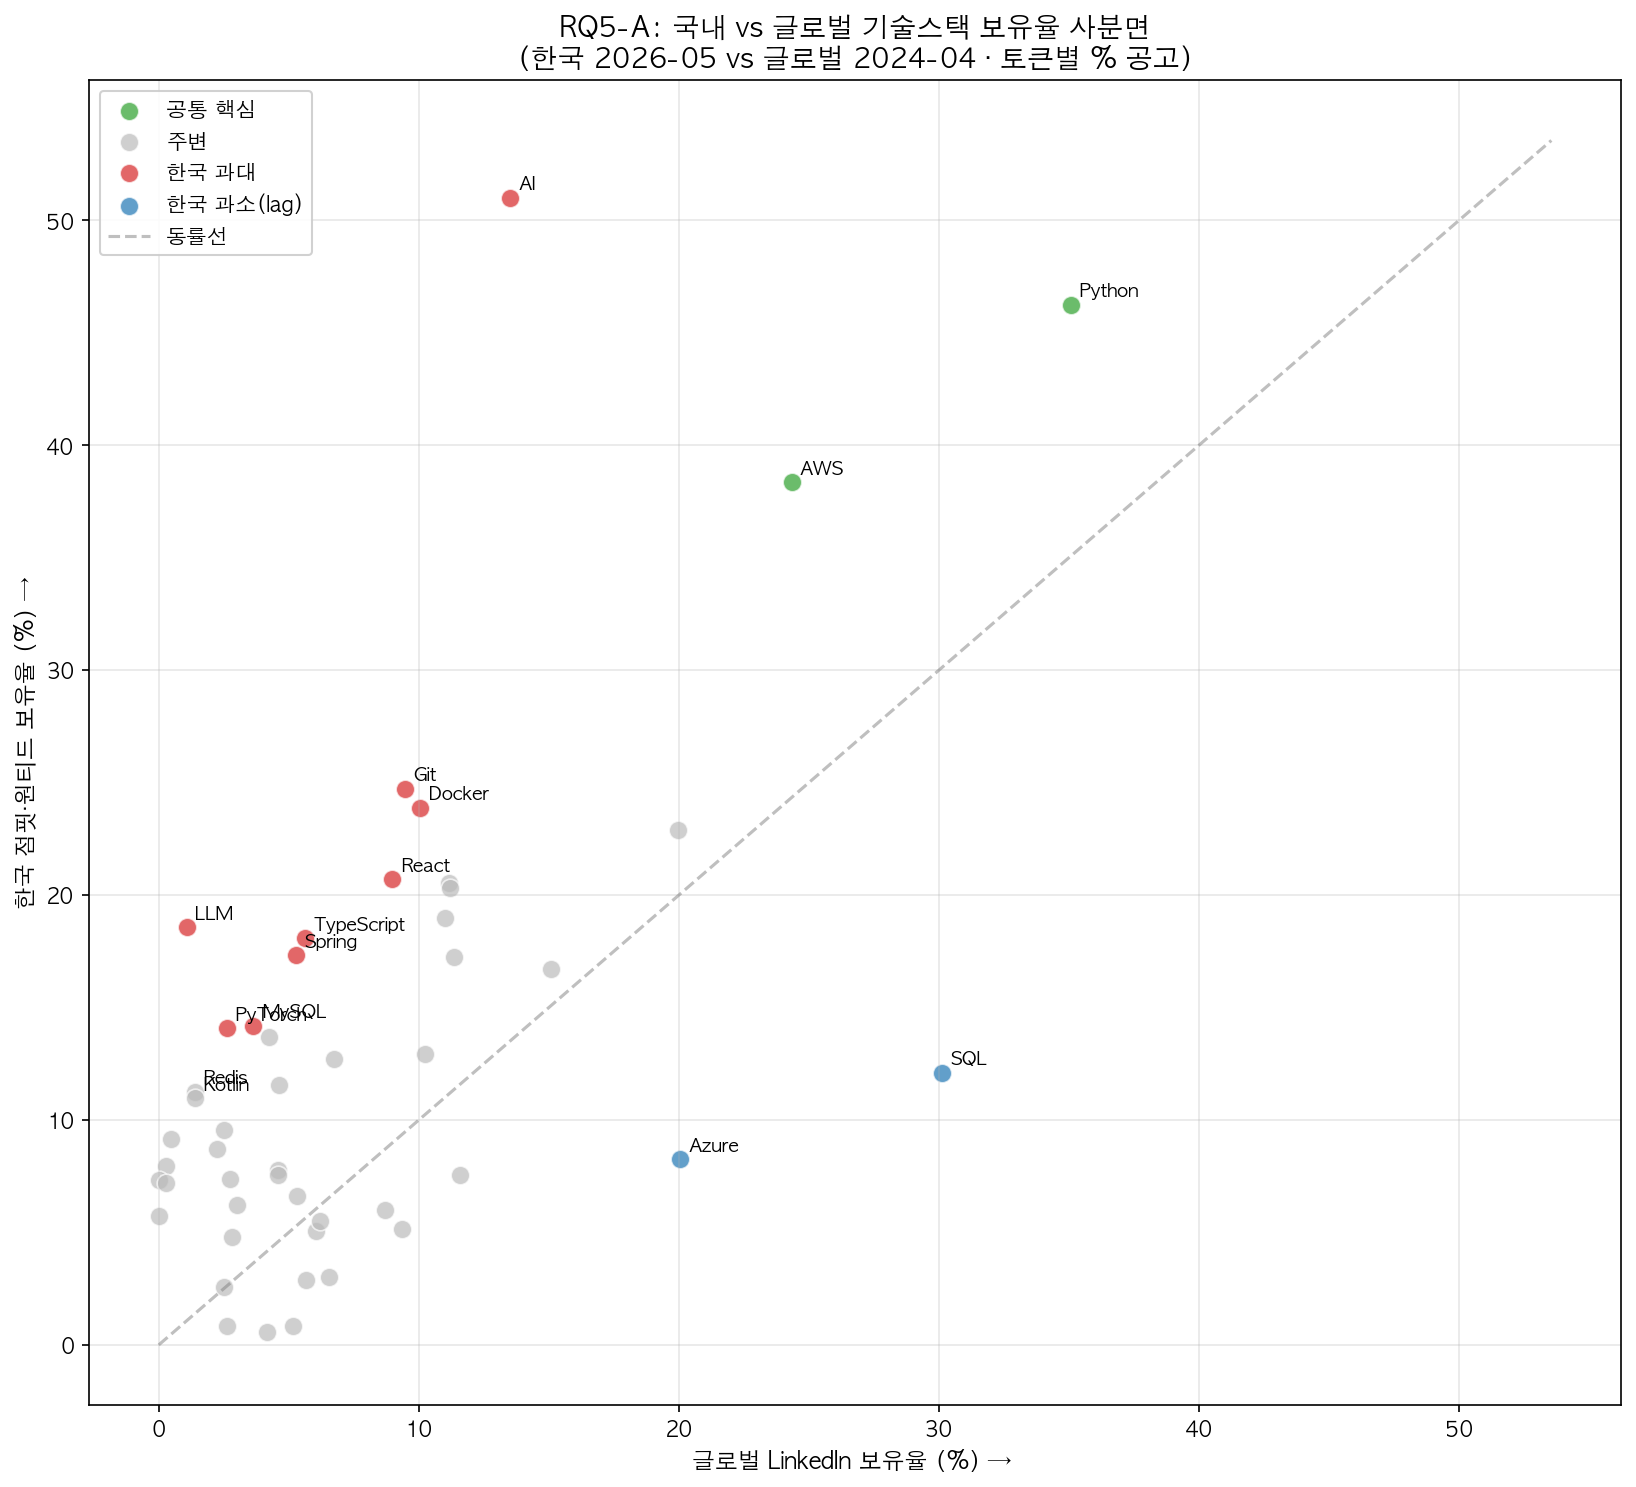
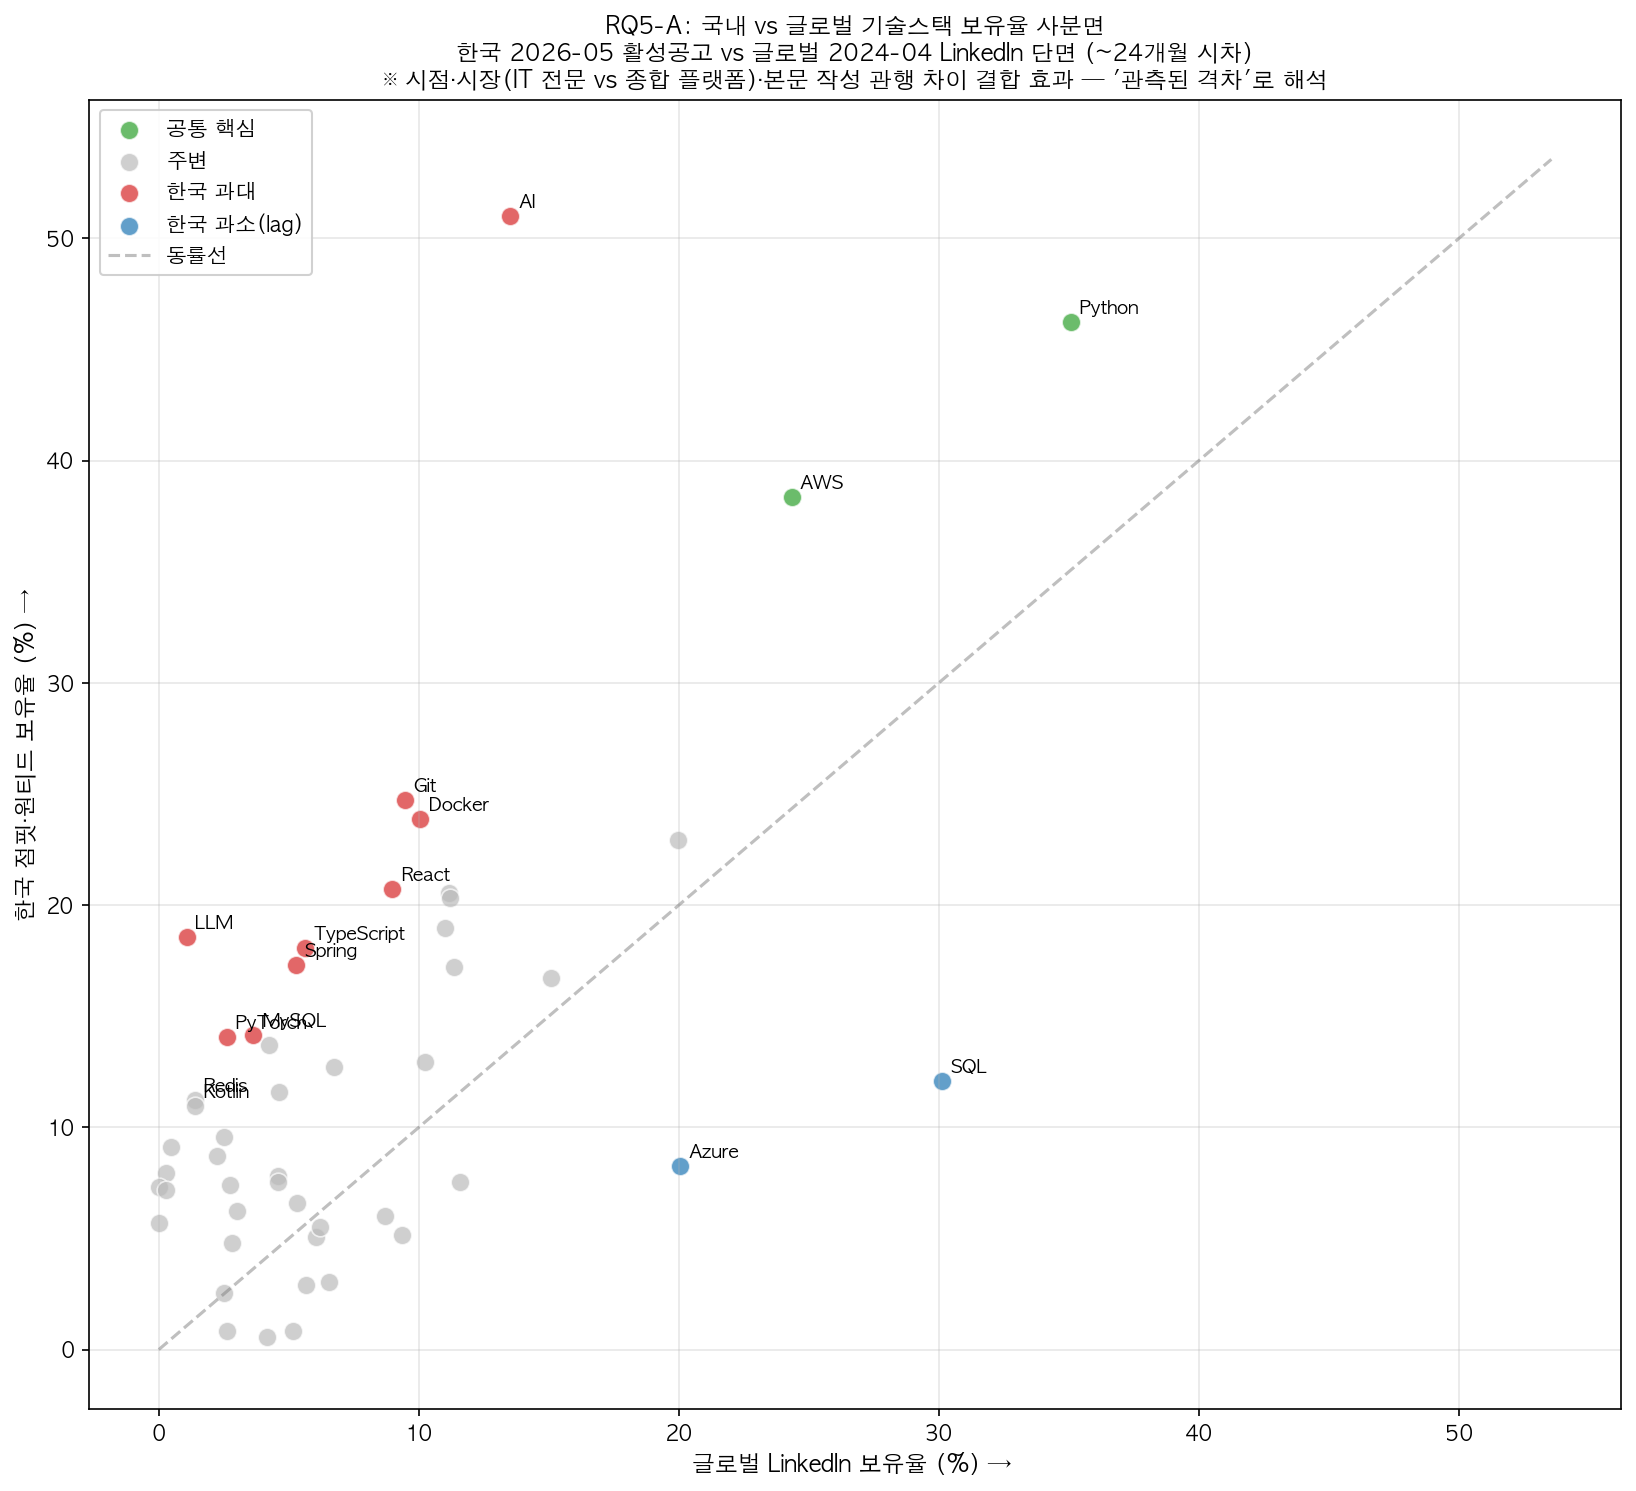
fix: RQ5 표현 약화 + 분모 민감도 분석 + README 데이터 규모 갱신
codex 피드백 반영. RQ5 차트 제목·축에 시점·시장 차이 결합 효과 명시.
LinkedIn 분모 차이(국내 97% vs 글로벌 79%) 통제한 민감도 분석 추가.

07 노트북
- share_per_token / tier_share에 denom='all'/'nonzero' 파라미터
- rq5_tier_compare: 4-bar 차트로 전체 분모 + 추출성공 분모 동시 표시
- 차트 부제·캡션에 '관측 격차 (시점·시장·관행 결합)' 명시
- '한국이 진보' 같은 강한 표현 제거, 'lag' → '관측 격차'로

민감도 결과 (Δ 한국-글로벌 pp)
- Tier A:  +8.0 (전체) / +8.2 (추출만)  — 동일
- Tier B:  +7.2 (전체) / +7.2 (추출만)  — 동일
- Tier C: +21.6 (전체) / +18.9 (추출만) — 2.7pp 완화
- Tier D: +37.5 (전체) / +35.2 (추출만) — 2.3pp 완화
→ 분모 통제해도 격차 패턴 robust (작은 완화 효과만)

README
- 데이터 규모: LinkedIn(IT 수만) → 'IT 광베이스 6,923건 (추출률 78.7%)'
- LinkedIn 2023-24 → 'LinkedIn 2024-04'
- RQ5 정의: '국내 vs 글로벌 lag' → '국내 2026 vs 글로벌 2024 관측 격차 (시점·시장 차이 결합)'

.gitignore
- outputs/rq{4,5}_*.csv: 재현 가능한 결과 테이블, 추적 안 함

diff --git a/notebooks/07_rq4_discourse_vs_reality.py b/notebooks/07_rq4_discourse_vs_reality.py
@@ -71,25 +71,50 @@ def load_linkedin() -> pd.DataFrame | None:
     return df
 
 
-def share_per_token(df: pd.DataFrame) -> pd.Series:
-    """토큰별 '해당 토큰 보유 공고 비율(%)' — 공고 단위 보유율."""
-    n = len(df)
+def share_per_token(df: pd.DataFrame, denom: str = "all") -> pd.Series:
+    """토큰별 '해당 토큰 보유 공고 비율(%)' — 공고 단위 보유율.
+
+    denom='all'     : 전체 공고 분모 (기본, 기존 결과 호환)
+    denom='nonzero' : 스킬 1개 이상 추출된 공고만 분모 (분모 민감도 검증용)
+                      → LinkedIn 추출 성공 78.7% vs 국내 97% 차이 통제
+    """
+    if denom == "nonzero":
+        sub = df[df["tokens"].apply(lambda x: len(x) > 0)]
+    else:
+        sub = df
+    n = len(sub)
+    if n == 0:
+        return pd.Series(dtype=float)
     counts = {}
-    for toks in df["tokens"]:
+    for toks in sub["tokens"]:
         for t in set(toks):
             counts[t] = counts.get(t, 0) + 1
     return (pd.Series(counts) / n * 100).sort_values(ascending=False)
 
 
-def tier_share(df: pd.DataFrame) -> dict:
+def tier_share(df: pd.DataFrame, denom: str = "all") -> dict:
     """공고 단위 tier 보유율 (% · 중복 허용)."""
-    n = len(df)
+    if denom == "nonzero":
+        sub = df[df["tokens"].apply(lambda x: len(x) > 0)]
+    else:
+        sub = df
+    n = len(sub)
+    if n == 0:
+        return {t: 0.0 for t in AI_TIERS}
     out = {}
     for tier, members in AI_TIERS.items():
         members_set = set(members)
-        cnt = df["tokens"].apply(lambda toks: bool(set(toks) & members_set)).sum()
+        cnt = sub["tokens"].apply(lambda toks: bool(set(toks) & members_set)).sum()
         out[tier] = cnt / n * 100
     return out
+
+
+def coverage_stats(df: pd.DataFrame, label: str) -> dict:
+    """추출 커버리지 통계 — 분모 민감도 분석 보조."""
+    n = len(df)
+    with_skills = df["tokens"].apply(lambda x: len(x) > 0).sum()
+    return {"label": label, "total": n, "with_skills": with_skills,
+            "coverage_pct": with_skills / n * 100 if n else 0}
 
 
 # ---------------------------------------------------------------------------
@@ -138,7 +163,8 @@ def rq5_quadrant(kr_share: pd.Series, gl_share: pd.Series, top_n: int = 40) -> N
     ax.set_xlabel("글로벌 LinkedIn 보유율 (%) → ", fontsize=11)
     ax.set_ylabel("한국 점핏·원티드 보유율 (%) →", fontsize=11)
     ax.set_title("RQ5-A: 국내 vs 글로벌 기술스택 보유율 사분면\n"
-                 "(한국 2026-05 vs 글로벌 2024-04 · 토큰별 % 공고)", fontsize=13)
+                 "한국 2026-05 활성공고 vs 글로벌 2024-04 LinkedIn 단면 (~24개월 시차)\n"
+                 "※ 시점·시장(IT 전문 vs 종합 플랫폼)·본문 작성 관행 차이 결합 효과 — '관측된 격차'로 해석", fontsize=11)
     ax.legend(loc="upper left", fontsize=10, framealpha=0.9)
     ax.grid(alpha=0.3)
     plt.tight_layout()
@@ -157,42 +183,66 @@ def rq5_quadrant(kr_share: pd.Series, gl_share: pd.Series, top_n: int = 40) -> N
 # ---------------------------------------------------------------------------
 # RQ5-B. AI 4-tier 한국 vs 글로벌 비교
 # ---------------------------------------------------------------------------
-def rq5_tier_compare(kr_tier: dict, gl_tier: dict) -> None:
+def rq5_tier_compare(kr_df: pd.DataFrame, gl_df: pd.DataFrame) -> None:
+    """RQ5-B: AI 4-tier 한·글 비교 — 분모 민감도 포함 (전체 분모 vs 추출성공만)."""
     tiers = list(AI_TIERS.keys())
-    kr_vals = [kr_tier[t] for t in tiers]
-    gl_vals = [gl_tier[t] for t in tiers]
     labels = [TIER_LABELS[t] for t in tiers]
 
+    kr_all  = tier_share(kr_df, denom="all")
+    gl_all  = tier_share(gl_df, denom="all")
+    kr_nz   = tier_share(kr_df, denom="nonzero")
+    gl_nz   = tier_share(gl_df, denom="nonzero")
+
+    kr_cov = coverage_stats(kr_df, "한국")
+    gl_cov = coverage_stats(gl_df, "글로벌")
+
     x = np.arange(len(tiers))
-    w = 0.38
+    w = 0.20
 
-    fig, ax = plt.subplots(figsize=(12, 6.5))
-    bars1 = ax.bar(x - w/2, kr_vals, w, label="한국 2026-05 (점핏·원티드)", color="#dd8452")
-    bars2 = ax.bar(x + w/2, gl_vals, w, label="글로벌 2024-04 (LinkedIn)", color="#4c72b0")
-
-    for bars, vals in [(bars1, kr_vals), (bars2, gl_vals)]:
+    fig, ax = plt.subplots(figsize=(14, 7))
+    series = [
+        (kr_all, "한국 (전체 분모)",     "#dd8452", -1.5*w),
+        (gl_all, "글로벌 (전체 분모)",   "#4c72b0", -0.5*w),
+        (kr_nz,  "한국 (스킬추출만)",   "#a4513b", +0.5*w),
+        (gl_nz,  "글로벌 (스킬추출만)", "#2c4a73", +1.5*w),
+    ]
+    for data, label, color, off in series:
+        vals = [data[t] for t in tiers]
+        bars = ax.bar(x + off, vals, w, label=label, color=color)
         for b, v in zip(bars, vals):
-            ax.text(b.get_x() + b.get_width()/2, b.get_height() + 1,
-                    f"{v:.1f}%", ha="center", fontsize=10, fontweight="bold")
+            ax.text(b.get_x() + b.get_width()/2, b.get_height() + 0.5,
+                    f"{v:.1f}", ha="center", fontsize=8)
 
-    # 격차 주석
-    for i, (k, g) in enumerate(zip(kr_vals, gl_vals)):
-        diff = k - g
-        ax.text(i, max(k, g) + 6,
-                f"Δ {diff:+.1f}pp",
-                ha="center", fontsize=10, color="darkred" if abs(diff) >= 5 else "gray")
+    # 전체 분모 기준 격차 주석
+    for i, t in enumerate(tiers):
+        diff = kr_all[t] - gl_all[t]
+        diff_nz = kr_nz[t] - gl_nz[t]
+        ax.text(i, max(kr_all[t], gl_all[t], kr_nz[t], gl_nz[t]) + 5,
+                f"Δ전체 {diff:+.1f}pp\nΔ추출 {diff_nz:+.1f}pp",
+                ha="center", fontsize=9,
+                color="darkred" if abs(diff) >= 5 else "gray")
 
     ax.set_xticks(x)
     ax.set_xticklabels(labels, fontsize=10)
     ax.set_ylabel("해당 tier 보유 공고 비율 (%) — 중복 허용", fontsize=11)
-    ax.set_title("RQ5-B: AI 4-tier 한국 vs 글로벌 (% 공고 · 24개월 시차)", fontsize=13)
-    ax.legend(loc="upper left", fontsize=11)
-    ax.set_ylim(0, max(max(kr_vals), max(gl_vals)) * 1.3)
+    ax.set_title("RQ5-B: AI 4-tier 한국 vs 글로벌 — 분모 민감도 분석\n"
+                 f"한국 추출률 {kr_cov['coverage_pct']:.1f}% ({kr_cov['with_skills']}/{kr_cov['total']}) "
+                 f"· 글로벌 추출률 {gl_cov['coverage_pct']:.1f}% ({gl_cov['with_skills']}/{gl_cov['total']})  "
+                 f"· 한국 2026-05 vs 글로벌 2024-04 (~24개월 시차)",
+                 fontsize=12)
+    ax.legend(loc="upper left", fontsize=9, ncol=2)
+    ax.set_ylim(0, 60)
     ax.grid(axis="y", alpha=0.3)
     plt.tight_layout()
     plt.savefig(f"{FIG_DIR}/rq5_ai_tier_compare.png", dpi=150, bbox_inches="tight")
     plt.close(fig)
     print("[RQ5-B] 저장:", f"{FIG_DIR}/rq5_ai_tier_compare.png")
+    print(f"  [커버리지] {kr_cov['label']} {kr_cov['coverage_pct']:.1f}% / "
+          f"{gl_cov['label']} {gl_cov['coverage_pct']:.1f}%")
+    for t in tiers:
+        print(f"  {TIER_LABELS[t]:30s} | 한국 전체 {kr_all[t]:5.1f}% / 추출 {kr_nz[t]:5.1f}% "
+              f"| 글로벌 전체 {gl_all[t]:5.1f}% / 추출 {gl_nz[t]:5.1f}% "
+              f"| Δ전체 {kr_all[t]-gl_all[t]:+5.1f}pp / Δ추출 {kr_nz[t]-gl_nz[t]:+5.1f}pp")
 
 
 # ---------------------------------------------------------------------------
@@ -233,7 +283,8 @@ def rq5_role_tier_compare(kr_df: pd.DataFrame, gl_df: pd.DataFrame, tier_key: st
     ax.set_xticklabels(labels, fontsize=9, rotation=0)
     ax.set_ylabel(f"{TIER_LABELS[tier_key]} 보유 공고 비율 (%)", fontsize=11)
     ax.set_title(f"RQ5-C: 직무 × {TIER_LABELS[tier_key]} — 한국 vs 글로벌\n"
-                 "(한국 2026-05 vs 글로벌 2024-04, 직무별 % 공고)", fontsize=13)
+                 "한국 2026-05 활성공고 vs 글로벌 2024-04 LinkedIn 단면 (~24개월 시차)\n"
+                 "※ 격차는 한국 진보가 아닌 시점·시장·관행의 결합 효과 — '관측된 격차'", fontsize=11)
     ax.legend(loc="upper right", fontsize=11)
     ax.set_ylim(0, max(cmp[["kr_rate", "gl_rate"]].values.max() * 1.3, 5))
     ax.grid(axis="y", alpha=0.3)
@@ -289,8 +340,9 @@ def rq5_key_tokens_gap(kr_share: pd.Series, gl_share: pd.Series) -> None:
         ax.text(r["gap"] + (1 if r["gap"] >= 0 else -1), bar.get_y() + bar.get_height()/2,
                 f"{sign}{r['gap']:.1f}pp  (KR {r['kr']:.1f} · GL {r['gl']:.1f})",
                 va="center", ha="left" if r["gap"] >= 0 else "right", fontsize=9)
-    ax.set_title("RQ5-D: 핵심 토큰의 국내·글로벌 격차 (한국 - 글로벌, pp 단위)\n"
-                 "양수 = 한국 우세 · 음수 = 한국 lag (글로벌 우세)", fontsize=12)
+    ax.set_title("RQ5-D: 핵심 토큰의 국내·글로벌 관측 격차 (한국 - 글로벌, pp)\n"
+                 "한국 2026-05 vs 글로벌 2024-04 (~24개월 시차) — 양/음수는 채용 요건 명시 빈도 차이일 뿐,\n"
+                 "도구·역량 실 도입률은 별도 검증 필요 (Claude Code 2024-06 출시는 글로벌 데이터 이후)", fontsize=11)
     ax.set_xlabel("격차 (pp · 양수 = 한국 우세)")
 
     import matplotlib.patches as mpatches
@@ -338,7 +390,7 @@ if __name__ == "__main__":
         gl_tier  = tier_share(gl_df)
 
         rq5_quadrant(kr_share, gl_share, top_n=40)
-        rq5_tier_compare(kr_tier, gl_tier)
+        rq5_tier_compare(kr_df, gl_df)
         rq5_role_tier_compare(kr_df, gl_df, "tier_a_coding_tool")
         rq5_role_tier_compare(kr_df, gl_df, "tier_c_ml_skill")
         rq5_key_tokens_gap(kr_share, gl_share)

diff --git a/README.md b/README.md
@@ -9,7 +9,7 @@
 | 팀 구성 | 4명 |
 | 제출 마감 | 2026-06-15 23:59 |
 | 발표 | 2026-06-16 11:00 |
-| 데이터 규모 | 국내 3,274 + LinkedIn(IT 수만) + 뉴스(수천) → 전체 수만 건+ |
+| 데이터 규모 | 국내 3,274 + LinkedIn IT 6,923 (전체 123,849에서 IT 광베이스 필터) + 뉴스 TBD → 총 1만+ |
 
 ---
 
@@ -85,7 +85,7 @@ ai-era-it-hiring-analysis/
 | **RQ4** | **언론 담론과 실제 요구역량은 일치하는가? (핵심)** | 뉴스 × 국내공고 | **07** |
 | └ RQ4a | (기술스택 간극) 뉴스·공고의 기술/역량 용어 비교 시 불일치는? | 뉴스 × 국내공고 | 07 |
 | └ RQ4b | (담론 프레임) 뉴스 내 위기/대체/재편 프레임 강도는? | 뉴스 | 07 |
-| **RQ5** | **국내 vs 글로벌 요구역량 격차(lag)는 얼마나 되는가?** | 국내공고 × LinkedIn | 07 |
+| **RQ5** | **국내 2026 vs 글로벌 2024 채용 요건 관측 격차** (시점·시장 차이 결합 효과) | 국내공고 × LinkedIn | 07 |
 | RQ6 | (보조) 공고 텍스트로 직무군을 분류할 수 있는가? | 국내공고/LinkedIn | 06 |
 
 > **RQ4 2트랙 분리:** 프레임어(AI대체·일자리위기)와 기술토큰(SQL·Git)을 한 지표에 섞지 않는다. 기술스택 간극(RQ4a)과 담론 프레임 강도(RQ4b)를 따로 측정.
@@ -130,7 +130,7 @@ LinkedIn        = 2024-04 글로벌 채용 단면    → 글로벌 단면 스냅
 | 점핏 채용공고 | `https://api.jumpit.co.kr/api/positions` (공개 JSON) | **777건** (techStacks 100%, 본문 99%) |
 | 원티드 채용공고 | `https://www.wanted.co.kr/api/v4/jobs` (개발 17개 카테고리) | **2,534건** (skill_tags 50%·본문 100%) |
 | → 국내 통합 | (교차중복 제거) | **3,274건**, 스킬 보유 97% |
-| LinkedIn 2023–24 | [Kaggle: arshkon/linkedin-job-postings](https://www.kaggle.com/datasets/arshkon/linkedin-job-postings) | 123,849 → IT 필터 예정 |
+| LinkedIn 2024-04 | [Kaggle: arshkon/linkedin-job-postings](https://www.kaggle.com/datasets/arshkon/linkedin-job-postings) | 123,849 → **IT 광베이스 필터 6,923건** (스킬 추출 성공 78.7%) |
 | 빅카인즈 뉴스 | [bigkinds.or.kr](https://www.bigkinds.or.kr/) | 2021–26, 본문 200자·2만건/쿼리 제한 |
 
 > **수집 방식:** 점핏·원티드의 공개 JSON 엔드포인트 호출 + 직접 크롤링 → "API 활용 + 직접 수집"(가산점). 학술용·비상업·요청 간 지연.
